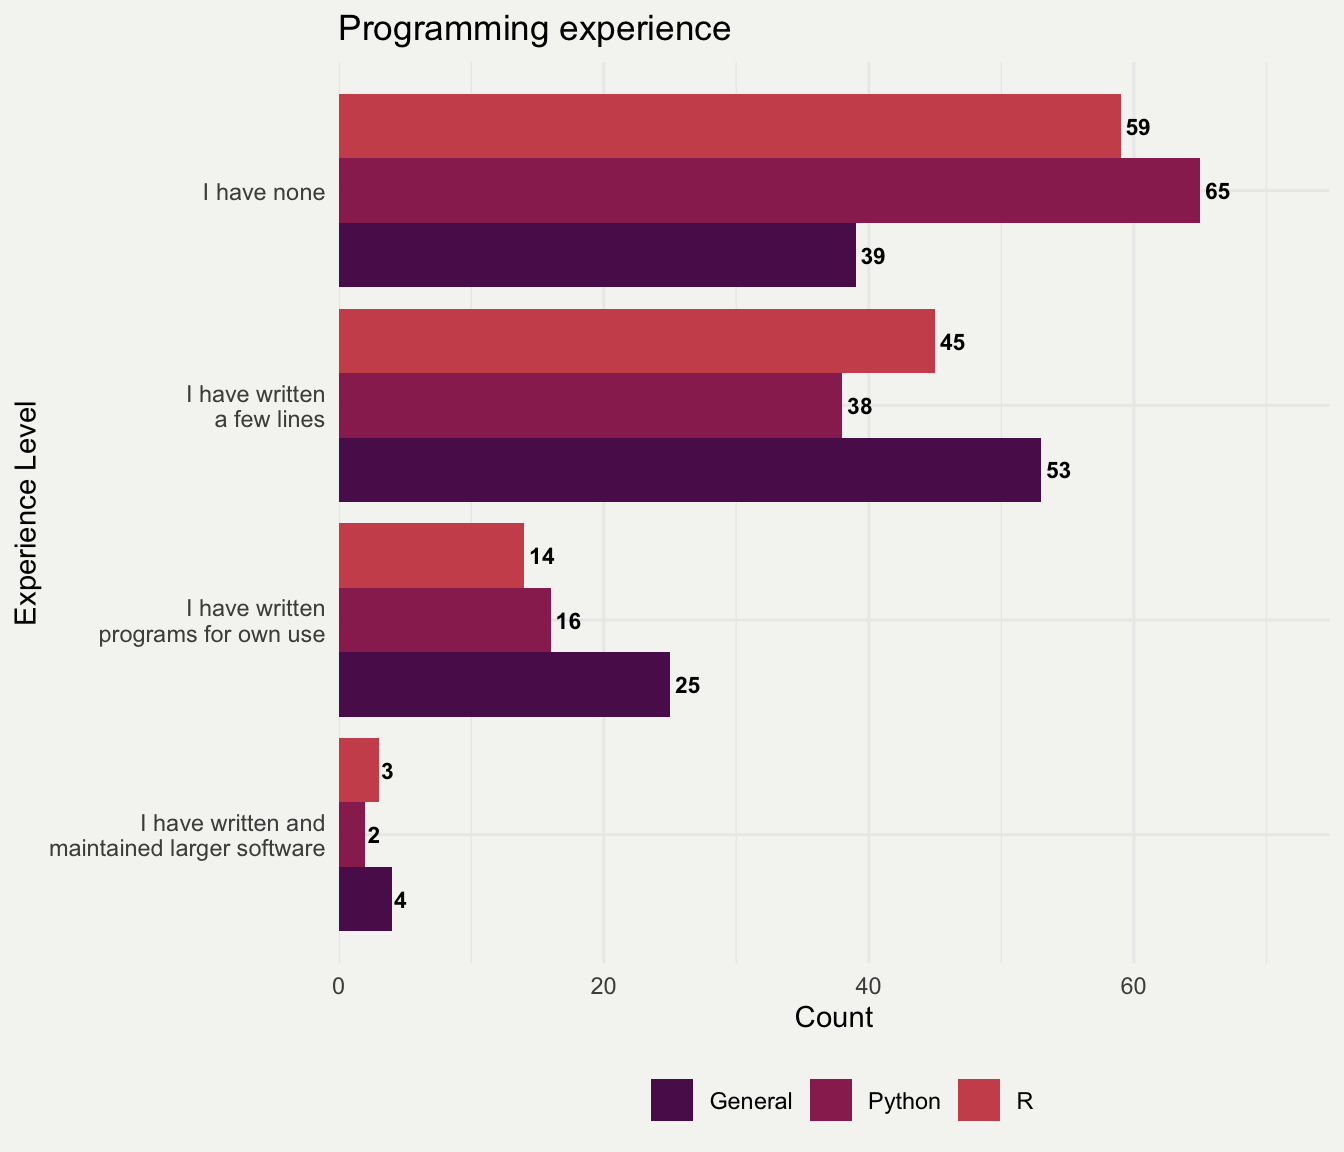
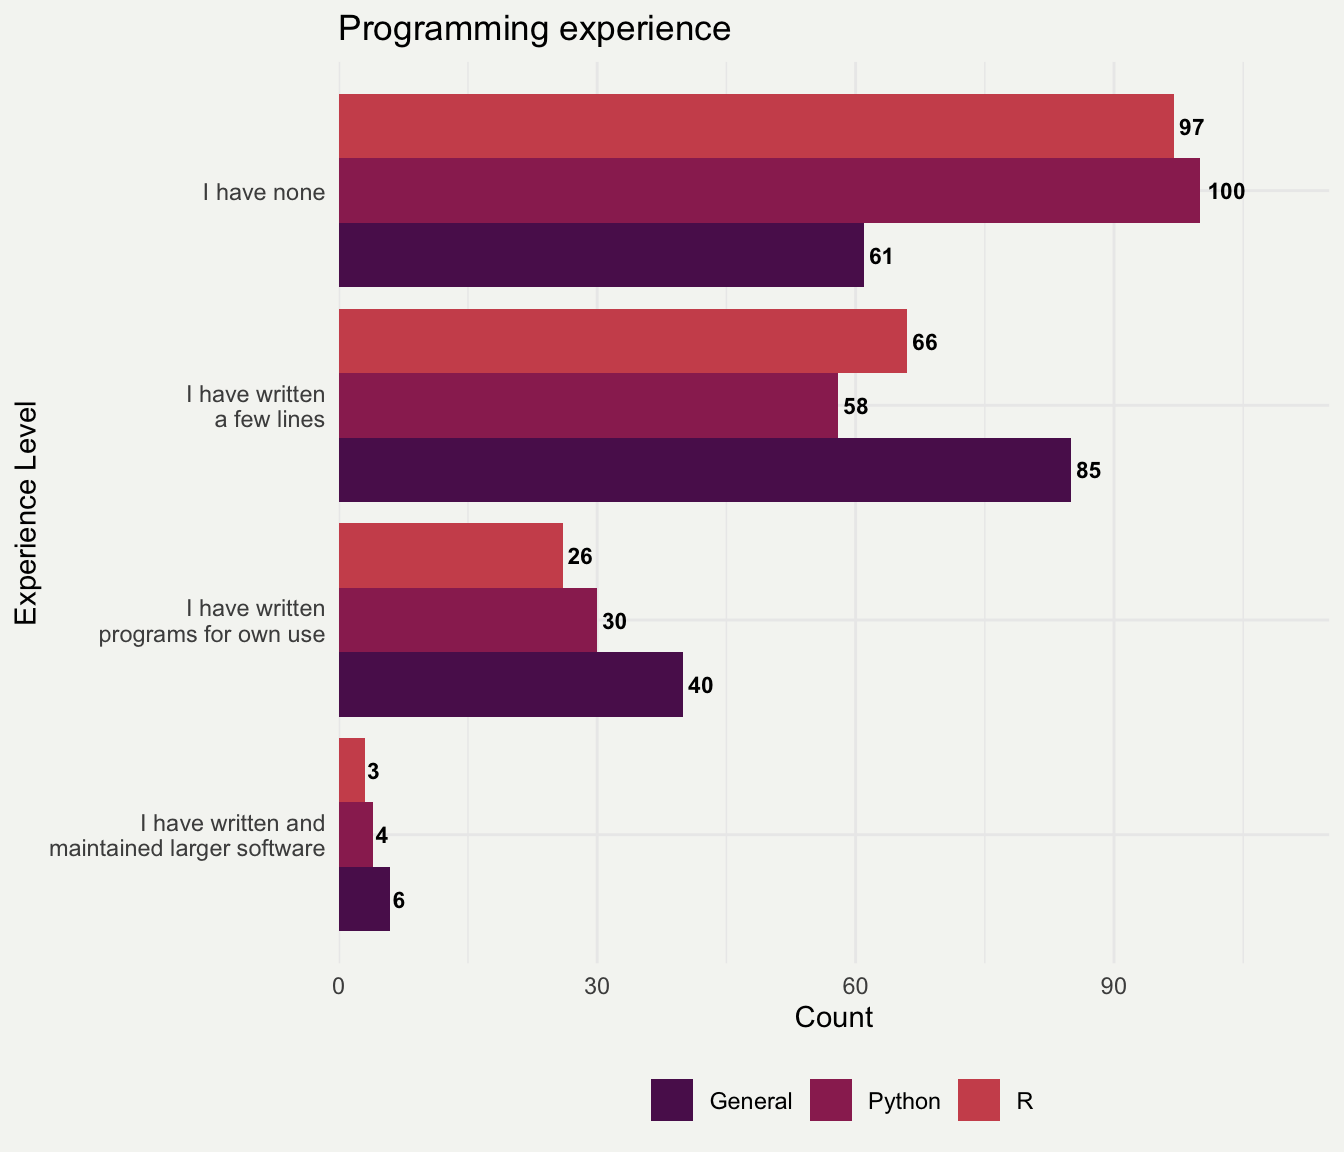
render

diff --git a/data_analysis.html b/data_analysis.html
@@ -2,7 +2,7 @@
 <html xmlns="http://www.w3.org/1999/xhtml" lang="en" xml:lang="en"><head>
 
 <meta charset="utf-8">
-<meta name="generator" content="quarto-1.7.31">
+<meta name="generator" content="quarto-1.7.32">
 
 <meta name="viewport" content="width=device-width, initial-scale=1.0, user-scalable=yes">
 
@@ -30,7 +30,7 @@ ul.task-list li input[type="checkbox"] {
 <script src="data_analysis_files/libs/quarto-html/tippy.umd.min.js"></script>
 <script src="data_analysis_files/libs/quarto-html/anchor.min.js"></script>
 <link href="data_analysis_files/libs/quarto-html/tippy.css" rel="stylesheet">
-<link href="data_analysis_files/libs/quarto-html/quarto-syntax-highlighting-e1a5c8363afafaef2c763b6775fbf3ca.css" rel="stylesheet" id="quarto-text-highlighting-styles">
+<link href="data_analysis_files/libs/quarto-html/quarto-syntax-highlighting-37eea08aefeeee20ff55810ff984fec1.css" rel="stylesheet" id="quarto-text-highlighting-styles">
 <script src="data_analysis_files/libs/bootstrap/bootstrap.min.js"></script>
 <link href="data_analysis_files/libs/bootstrap/bootstrap-icons.css" rel="stylesheet">
 <link href="data_analysis_files/libs/bootstrap/bootstrap-81267100e462c21b3d6c0d5bf76a3417.min.css" rel="stylesheet" append-hash="true" id="quarto-bootstrap" data-mode="light">
@@ -63,7 +63,7 @@ ul.task-list li input[type="checkbox"] {
 </header>
 
 
-<p>We’re thrilled to have received <strong>121 registrations</strong> so far from passionate learners worldwide who are ready to transform water, sanitation, and hygiene data into actionable insights! 📊</p>
+<p>We’re thrilled to have received <strong>192 registrations</strong> so far from passionate learners worldwide who are ready to transform water, sanitation, and hygiene data into actionable insights! 📊</p>
 <div class="cell">
 <div class="cell-output-display">
 <div>
@@ -73,7 +73,7 @@ ul.task-list li input[type="checkbox"] {
 </div>
 </div>
 </div>
-<p><strong>🗺 Global reach, diverse perspectives:</strong> Our participants span continents, with African countries leading the way. We have 14 registrations from Ghana, followed by strong representation from Uganda (13 registrations), Ethiopia (10 registrations) and Malawi (10 registrations). Also very exciting to see a strong female participation with 37% of the registrations. You’re creating an inclusive learning environment where diverse voices will enrich our experience. 🤝</p>
+<p><strong>🗺 Global reach, diverse perspectives:</strong> Our participants span continents, with African countries leading the way. We have 25 registrations from Nigeria, followed by strong representation from Switzerland (16 registrations), Uganda (16 registrations) and Ghana (15 registrations). Also very exciting to see a strong female participation with 39% of the registrations. You’re creating an inclusive learning environment where diverse voices will enrich our experience. 🤝</p>
 <div class="cell">
 <div class="cell-output-display">
 <div>
@@ -83,7 +83,7 @@ ul.task-list li input[type="checkbox"] {
 </div>
 </div>
 </div>
-<p><strong>📚 Meeting learners at every level:</strong> While 69% of participants hold advanced degrees and 49% are employed full-time, 86% are beginners in R programming. This mix creates a unique learning environment where everyone brings valuable perspectives. Whether you’re taking your first steps in coding or bringing years of WASH expertise we’re ready to support you in this path of adding data science to your toolkit. 💻✨</p>
+<p><strong>📚 Meeting learners at every level:</strong> While 68% of participants hold advanced degrees and 46% are employed full-time, 85% are beginners in R programming. This mix creates a unique learning environment where everyone brings valuable perspectives. Whether you’re taking your first steps in coding or bringing years of WASH expertise we’re ready to support you in this path of adding data science to your toolkit. 💻✨</p>
 <div class="cell">
 <div class="cell-output-display">
 <div>
